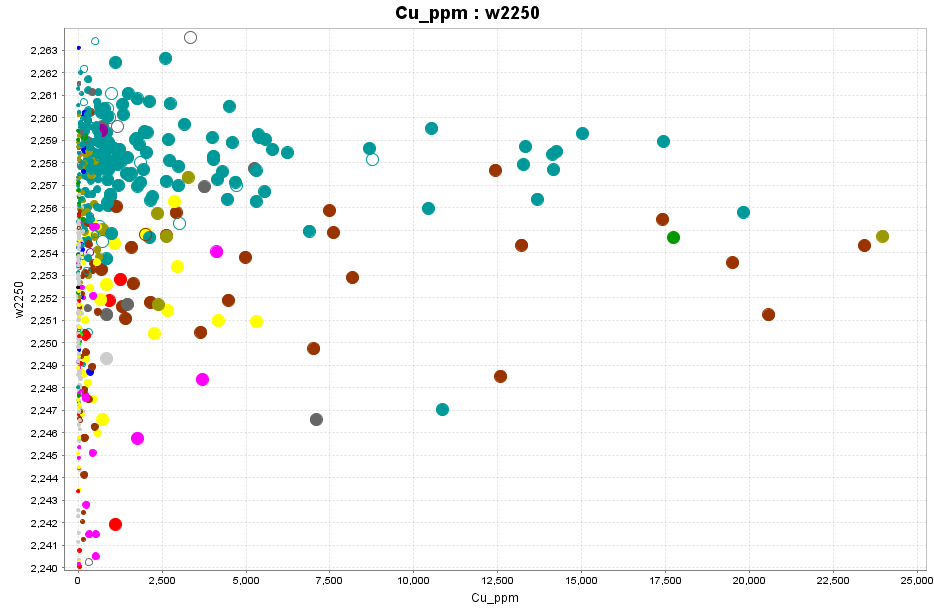
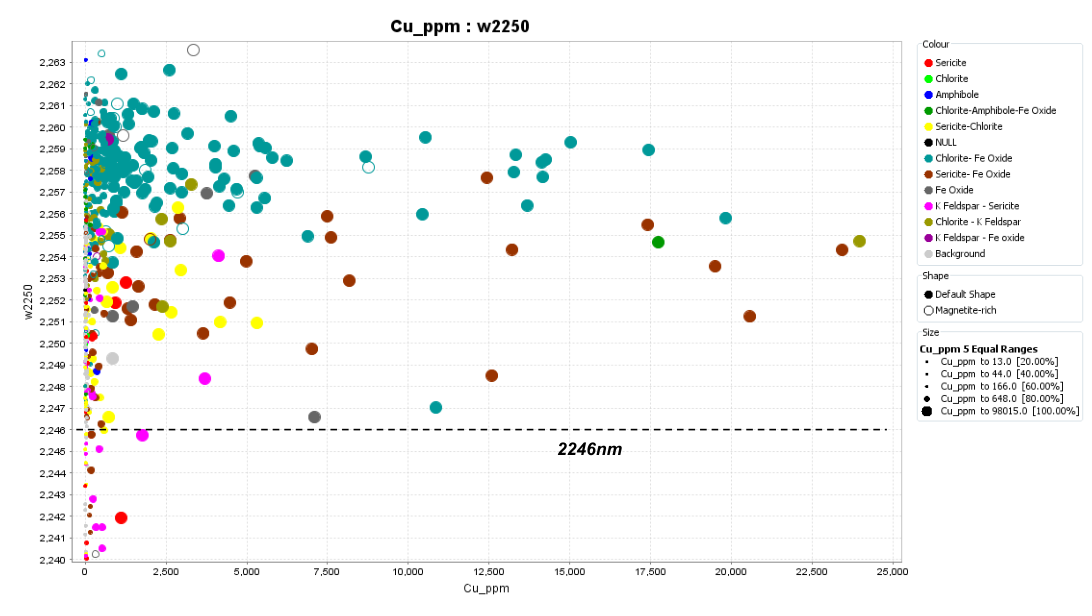
Match report figure scales, restore legends, and drop overlay boxes
Remove the shaded windows and Plotly legend-title boxes, recrop the 2013 figures so their original legends are visible, lock copper and GER axes to the same ranges as the report, and label the mineral fields on Figure 12.

diff --git a/docs/js/app.js b/docs/js/app.js
@@ -1,19 +1,33 @@
-/* Paleta alineada con geoia.site/balance (ALT_COLORS + QUAL_PALETTE). */
+/* Paleta GeoIA para el balance; paleta del informe (ioGAS) para ensamblajes. */
 const COLORS = {
   "Mica blanca / sericita": "#e6a23c",
   Clorita: "#67c23a",
   "K-feldespato": "#8a5cf6",
-  "Fe-óxido": "#f56c6c",
+  "Fe-óxido": "#808080",
   Carbonato: "#06b6d4",
   "Calc-silicato": "#84cc16",
-  "Anfibol / calc-silicato": "#2563eb",
+  "Anfibol / calc-silicato": "#4169e1",
   "Sulfuro Cu": "#f97316",
   "Arcilla / sulfato": "#ec4899",
   "Sin mineral SWIR": "#c3c9d4",
   "Caolinita / arcilla": "#ec4899",
   Mixto: "#64748b",
-  Sericita: "#e6a23c",
-  "Clorita-Fe-óxido": "#67c23a",
+  Sericita: "#e41a1c",
+  "Clorita-Fe-óxido": "#20b2aa",
+  "Sericita-Fe-óxido": "#8b4513",
+  "Sericita-clorita": "#ffd700",
+  "Sericita-clorita-Fe-óxido": "#daa520",
+  "K-feldespato-sericita": "#ff69b4",
+  "K-feldespato-Fe-óxido": "#800080",
+  "K-feldespato-magnetita": "#4b0082",
+  "K-feldespato-sericita-Fe-óxido": "#db7093",
+  "Clorita-magnetita": "#008b8b",
+  "Sericita-magnetita": "#a0522d",
+  "Clorita-anfibol-Fe-óxido": "#006400",
+  "Clorita-anfibol": "#228b22",
+  Anfibol: "#4169e1",
+  Magnetita: "#1e293b",
+  "Carbonato-Fe-óxido": "#4682b4",
   Propilitica: "#67c23a",
   Argilica: "#f56c6c",
   Potasica: "#8a5cf6",
@@ -45,7 +59,7 @@ const layoutBase = {
   plot_bgcolor: "#ffffff",
   font: { family: "Figtree, Segoe UI, sans-serif", color: "#1f2937", size: 12 },
   margin: { t: 48, r: 18, b: 56, l: 64 },
-  legend: { orientation: "h", y: -0.22 },
+  legend: { orientation: "h", y: -0.22, bgcolor: "rgba(255,255,255,0)", borderwidth: 0 },
 };
 
 let SAMPLES = [];
@@ -156,16 +170,16 @@ function renderMap() {
   legend.addTo(map);
 }
 
-function tracesBy(field, xKey, yKey) {
+function tracesBy(field, xKey, yKey, rows = SAMPLES) {
   const groups = {};
-  SAMPLES.forEach((s) => {
+  rows.forEach((s) => {
     const g = s[field] || "s/d";
     (groups[g] ||= []).push(s);
   });
-  return Object.entries(groups).map(([name, rows]) => ({
-    x: rows.map((s) => s[xKey]),
-    y: rows.map((s) => s[yKey]),
-    text: rows.map((s) => `${s.h} ${s.f}–${s.t} m<br>${s.lith} · ${s.st}<br>Cu ${s.cu} ppm`),
+  return Object.entries(groups).map(([name, group]) => ({
+    x: group.map((s) => s[xKey]),
+    y: group.map((s) => s[yKey]),
+    text: group.map((s) => `${s.h} ${s.f}–${s.t} m<br>${s.lith} · ${s.st}<br>Cu ${s.cu} ppm`),
     hoverinfo: "text",
     mode: "markers",
     type: "scatter",
@@ -204,9 +218,9 @@ function renderGer() {
       ...layoutBase,
       margin: { t: 48, r: 18, b: 90, l: 56 },
       title: { text: "Potasio / aluminio frente a sodio / aluminio", font: { size: 15 } },
-      xaxis: { title: "Na/Al (molar)", range: [-0.02, 1.05], zeroline: false },
-      yaxis: { title: "K/Al (molar)", range: [-0.02, 1.15], zeroline: false },
-      legend: { orientation: "h", y: -0.28, title: { text: "Mineral principal del balance" } },
+      xaxis: { title: "Na/Al (molar)", range: [0, 1], zeroline: false, constrain: "domain" },
+      yaxis: { title: "K/Al (molar)", range: [0, 1], zeroline: false, scaleanchor: "x", scaleratio: 1 },
+      legend: { orientation: "h", y: -0.28, bgcolor: "rgba(255,255,255,0)", borderwidth: 0 },
       shapes: gerShapes(),
       annotations: gerAnnotations(),
     }),
@@ -217,14 +231,14 @@ function renderGer() {
 function renderGerTsa() {
   Plotly.newPlot(
     "gertsa",
-    tracesBy("spec", "naal", "kal"),
+    tracesBy("asm", "naal", "kal"),
     withAxes({
       ...layoutBase,
       margin: { t: 48, r: 18, b: 90, l: 56 },
-      title: { text: "Mismo diagrama, color = mineral del espectro", font: { size: 15 } },
-      xaxis: { title: "Na/Al (molar)", range: [-0.02, 1.05], zeroline: false },
-      yaxis: { title: "K/Al (molar)", range: [-0.02, 1.15], zeroline: false },
-      legend: { orientation: "h", y: -0.28, title: { text: "Mineral visto por el espectrómetro" } },
+      title: { text: "Mismo diagrama, color = mezcla del informe", font: { size: 15 } },
+      xaxis: { title: "Na/Al (molar)", range: [0, 1], zeroline: false, constrain: "domain" },
+      yaxis: { title: "K/Al (molar)", range: [0, 1], zeroline: false, scaleanchor: "x", scaleratio: 1 },
+      legend: { orientation: "h", y: -0.28, bgcolor: "rgba(255,255,255,0)", borderwidth: 0 },
       shapes: gerShapes(),
       annotations: gerAnnotations(),
     }),
@@ -241,73 +255,52 @@ function renderFeAl() {
       title: { text: "Hierro frente a aluminio", font: { size: 15 } },
       xaxis: { title: "Al (%)" },
       yaxis: { title: "Fe (%)" },
-      legend: { orientation: "h", y: -0.22, title: { text: "Mineral del espectro" } },
+      legend: { orientation: "h", y: -0.22, bgcolor: "rgba(255,255,255,0)", borderwidth: 0 },
     }),
     { responsive: true, displayModeBar: false }
   );
 }
 
 function renderCuW() {
-  const cu = SAMPLES.filter((s) => s.cu != null && s.cu > 0);
+  const mica = SAMPLES.filter((s) => s.cu != null && s.cu > 0 && s.w22 != null);
   Plotly.newPlot(
     "cuw22",
-    [
-      {
-        x: cu.map((s) => s.cu),
-        y: cu.map((s) => s.w22),
-        mode: "markers",
-        type: "scatter",
-        marker: {
-          size: 7,
-          opacity: 0.75,
-          color: cu.map((s) => colorOf(s.spec)),
-          line: { width: 0.4, color: "#ffffff" },
-        },
-        text: cu.map((s) => `${s.h}<br>${s.spec}<br>banda mica ${s.w22} nm<br>Cu ${s.cu} ppm`),
-        hoverinfo: "text",
-        name: "muestras",
-        showlegend: false,
-      },
-    ],
+    tracesBy("asm", "cu", "w22", mica),
     withAxes({
       ...layoutBase,
+      margin: { t: 48, r: 18, b: 90, l: 64 },
       title: { text: "Banda de la mica (~2200 nm) frente a cobre", font: { size: 15 } },
-      xaxis: { title: "Cu (ppm)" },
-      yaxis: { title: "Posición de la banda de la mica (nm)", range: [2194, 2228] },
+      xaxis: { title: "Cu (ppm)", range: [0, 50000] },
+      yaxis: { title: "Posición de la banda de la mica (nm)", range: [2195, 2227.5] },
+      legend: { orientation: "h", y: -0.32, bgcolor: "rgba(255,255,255,0)", borderwidth: 0 },
       shapes: [
-        { type: "rect", x0: 0, x1: 55000, y0: 2206, y1: 2221, fillcolor: "rgba(230,162,60,0.14)", line: { width: 0 } },
+        { type: "line", x0: 0, x1: 50000, y0: 2206, y1: 2206, line: { dash: "dash", color: "#1e293b", width: 1 } },
+        { type: "line", x0: 0, x1: 50000, y0: 2221, y1: 2221, line: { dash: "dash", color: "#1e293b", width: 1 } },
+      ],
+      annotations: [
+        { x: 48000, y: 2206, text: "2206 nm", showarrow: false, font: { size: 10 }, xanchor: "right", yshift: -10 },
+        { x: 48000, y: 2221, text: "2221 nm", showarrow: false, font: { size: 10 }, xanchor: "right", yshift: 10 },
       ],
     }),
     { responsive: true, displayModeBar: false }
   );
 
+  const chl = SAMPLES.filter((s) => s.cu != null && s.cu > 0 && s.w25 != null);
   Plotly.newPlot(
     "cuw25",
-    [
-      {
-        x: cu.map((s) => s.cu),
-        y: cu.map((s) => s.w25),
-        mode: "markers",
-        type: "scatter",
-        marker: {
-          size: 7,
-          opacity: 0.75,
-          color: cu.map((s) => colorOf(s.spec)),
-          line: { width: 0.4, color: "#ffffff" },
-        },
-        text: cu.map((s) => `${s.h}<br>${s.spec}<br>banda clorita ${s.w25} nm<br>Cu ${s.cu} ppm`),
-        hoverinfo: "text",
-        name: "muestras",
-        showlegend: false,
-      },
-    ],
+    tracesBy("asm", "cu", "w25", chl),
     withAxes({
       ...layoutBase,
+      margin: { t: 48, r: 18, b: 90, l: 64 },
       title: { text: "Banda de la clorita (~2250 nm) frente a cobre", font: { size: 15 } },
-      xaxis: { title: "Cu (ppm)" },
-      yaxis: { title: "Posición de la banda de la clorita (nm)", range: [2238, 2266] },
+      xaxis: { title: "Cu (ppm)", range: [0, 25000] },
+      yaxis: { title: "Posición de la banda de la clorita (nm)", range: [2240, 2263] },
+      legend: { orientation: "h", y: -0.32, bgcolor: "rgba(255,255,255,0)", borderwidth: 0 },
       shapes: [
-        { type: "rect", x0: 0, x1: 55000, y0: 2246, y1: 2264, fillcolor: "rgba(103,194,58,0.12)", line: { width: 0 } },
+        { type: "line", x0: 0, x1: 25000, y0: 2246, y1: 2246, line: { dash: "dash", color: "#1e293b", width: 1 } },
+      ],
+      annotations: [
+        { x: 24000, y: 2246, text: "2246 nm", showarrow: false, font: { size: 10 }, xanchor: "right", yshift: -10 },
       ],
     }),
     { responsive: true, displayModeBar: false }
@@ -317,38 +310,46 @@ function renderCuW() {
 function renderMagsus() {
   const rows = SAMPLES.filter((s) => s.ms != null && s.ms > 0);
   const holes = unique(rows.map((s) => s.h)).sort();
+  const groups = {};
+  rows.forEach((s) => {
+    (groups[s.asm || "s/d"] ||= []).push(s);
+  });
+  const traces = Object.entries(groups).map(([name, group]) => ({
+    x: group.map((s) => s.ms),
+    y: group.map((s) => s.h),
+    mode: "markers",
+    type: "scatter",
+    name,
+    marker: {
+      size: 8,
+      opacity: 0.8,
+      color: colorOf(name),
+      symbol: group.map((s) => (s.ms >= 5000 ? "circle-open" : "circle")),
+      line: { width: 1.2, color: colorOf(name) },
+    },
+    text: group.map(
+      (s) =>
+        `${s.h}<br>${s.asm}<br>susceptibilidad ${s.ms}<br>magnetita del balance ${s.mt}%`
+    ),
+    hoverinfo: "text",
+  }));
   Plotly.newPlot(
     "magsus",
-    [
-      {
-        x: rows.map((s) => s.ms),
-        y: rows.map((s) => s.h),
-        mode: "markers",
-        type: "scatter",
-        marker: {
-          size: 8,
-          opacity: 0.8,
-          color: rows.map((s) => s.mt || 0),
-          colorscale: DENSITY_COLORSCALE,
-          colorbar: { title: { text: "Magnetita<br>del balance (%)" }, thickness: 14 },
-          line: { width: 0.3, color: "#ffffff" },
-        },
-        text: rows.map(
-          (s) =>
-            `${s.h}<br>susceptibilidad magnética ${s.ms}<br>magnetita ${s.mt}% · hematita ${s.hm}%`
-        ),
-        hoverinfo: "text",
-      },
-    ],
+    traces,
     withAxes({
       ...layoutBase,
       height: 620,
-      margin: { t: 48, r: 90, b: 56, l: 90 },
+      margin: { t: 48, r: 18, b: 90, l: 90 },
       title: { text: "Susceptibilidad magnética por sondaje", font: { size: 15 } },
-      xaxis: { title: "Susceptibilidad magnética (×10⁻⁵ SI)", type: "log" },
+      xaxis: { title: "Susceptibilidad magnética (×10⁻⁵ SI)", type: "log", range: [-2, 5] },
       yaxis: { title: "Sondaje", categoryorder: "array", categoryarray: holes.slice().reverse() },
+      legend: { orientation: "h", y: -0.18, bgcolor: "rgba(255,255,255,0)", borderwidth: 0 },
       shapes: [
-        { type: "line", xref: "x", yref: "paper", x0: 5000, x1: 5000, y0: 0, y1: 1, line: { dash: "dash", color: "#f56c6c", width: 2 } },
+        { type: "line", xref: "x", yref: "paper", x0: 5000, x1: 5000, y0: 0, y1: 1, line: { dash: "dash", color: "#2563eb", width: 1.5 } },
+      ],
+      annotations: [
+        { x: 200, y: 1.02, yref: "paper", text: "hematita", showarrow: false, font: { size: 11, color: "#2563eb" } },
+        { x: 30000, y: 1.02, yref: "paper", text: "magnetita", showarrow: false, font: { size: 11, color: "#2563eb" } },
       ],
     }),
     { responsive: true, displayModeBar: false }

diff --git a/docs/index.html b/docs/index.html
@@ -199,19 +199,19 @@
 
     <section class="section wrap" id="graficos">
       <h2>Los diagramas del informe, recreados con el CSV</h2>
-      <p class="note">A la izquierda, la recreación. A la derecha, la figura original. Los ejes coinciden con el informe: lo que iba en X sigue en X.</p>
+      <p class="note">A la izquierda, la recreación. A la derecha, la figura original con su leyenda. Los dos gráficos de cada fila usan la misma escala.</p>
 
       <h3>Potasio y sodio respecto al aluminio</h3>
       <div class="grid-2">
         <div class="card">
           <div id="ger" class="chart"></div>
-          <p class="fig-cap">Color = mineral principal del balance (sin cuarzo). Eje X: sodio/aluminio. Eje Y: potasio/aluminio.</p>
+          <p class="fig-cap">Color = mineral principal del balance (sin cuarzo). Mismos ejes que la figura de al lado: 0 a 1.</p>
         </div>
         <div>
           <div class="fig-frame">
             <img src="assets/figs/fig8_ger.png" alt="Figura 8 del informe: campos de K-feldespato, moscovita, clorita y albita" />
           </div>
-          <p class="fig-cap">Figura 8 del informe. La nube se junta a la izquierda (poco sodio). Una cola baja va hacia albita.</p>
+          <p class="fig-cap">Figura 8 del informe. Leyenda: tipo de roca. La nube a la izquierda es alteración (poco sodio). El espacio vacío a la derecha es roca con más sodio, casi sin alterar.</p>
         </div>
       </div>
 
@@ -219,13 +219,23 @@
       <div class="grid-2">
         <div class="card">
           <div id="gertsa" class="chart"></div>
-          <p class="fig-cap">Mismos ejes que la figura de al lado. El color ahora es el mineral que vio el espectrómetro, no el del balance.</p>
+          <p class="fig-cap">Mismos ejes 0–1. El color es la mezcla de minerales del informe (espectro + química), para poder compararlo con la figura de al lado.</p>
         </div>
         <div>
           <div class="fig-frame">
             <img src="assets/figs/fig12_espectral_geoquimica.png" alt="Figura 12: clasificación combinada espectral y geoquímica" />
           </div>
-          <p class="fig-cap">Figura 12 del informe: el mismo diagrama de sodio y potasio, con colores del espectro.</p>
+          <p class="fig-cap">Figura 12 del informe. Leyenda: mezcla de minerales (espectro + química). Los colores marcan ensamblajes, no los campos del diagrama.</p>
+          <div class="area-legend">
+            <strong>Qué es cada zona del diagrama</strong>
+            <ul>
+              <li><b>Arriba a la izquierda</b> (mucho potasio, casi sin sodio): feldspato potásico.</li>
+              <li><b>A media altura a la izquierda</b> (marca «Mu», K/Al ≈ 0,33): moscovita / sericita.</li>
+              <li><b>Abajo a la izquierda</b> (origen, marca «Cd»): clorita.</li>
+              <li><b>Abajo a la derecha</b> (mucho sodio): albita.</li>
+              <li><b>Centro y derecha casi vacíos</b>: roca poco alterada (volcanitas GRV o granito Donington).</li>
+            </ul>
+          </div>
         </div>
       </div>
 
@@ -239,11 +249,11 @@
       <div class="grid-2">
         <div class="card">
           <div id="cuw22" class="chart"></div>
-          <p class="fig-cap">Eje X: cobre. Eje Y: posición de la banda de la mica. La franja horizontal es la ventana 2206–2221 nm del informe.</p>
+          <p class="fig-cap">Eje X: cobre, 0–50 000 ppm (igual que el informe). Las líneas punteadas son 2206 y 2221 nm: ahí cae casi todo el cobre alto.</p>
         </div>
         <div>
           <div class="fig-frame"><img src="assets/figs/fig20_cu_w2200.png" alt="Figura 20: Cu en X y w2200 en Y" /></div>
-          <p class="fig-cap">Figura 20 del informe. Cobre en horizontal; banda de la mica en vertical.</p>
+          <p class="fig-cap">Figura 20 del informe. Leyenda: mezcla de minerales. Círculo abierto = muestra magnética (magnetita). El tamaño del punto también indica cobre.</p>
         </div>
       </div>
 
@@ -251,11 +261,11 @@
       <div class="grid-2">
         <div class="card">
           <div id="cuw25" class="chart"></div>
-          <p class="fig-cap">Eje X: cobre. Eje Y: posición de la banda de la clorita. La clorita rica en hierro queda más arriba.</p>
+          <p class="fig-cap">Eje X: cobre, 0–25 000 ppm (igual que el informe). La línea punteada es 2246 nm: el cobre alto queda por encima (clorita más férrica).</p>
         </div>
         <div>
           <div class="fig-frame"><img src="assets/figs/fig23_cu_w2250.png" alt="Figura 23: Cu en X y w2250 en Y" /></div>
-          <p class="fig-cap">Figura 23 del informe. Cobre en horizontal; banda de la clorita en vertical.</p>
+          <p class="fig-cap">Figura 23 del informe. Leyenda: mezcla de minerales. Círculo abierto = magnetita. Cobre alto sobre 2246 nm.</p>
         </div>
       </div>
 
@@ -263,13 +273,13 @@
       <div class="grid-2">
         <div class="card">
           <div id="magsus" class="chart tall"></div>
-          <p class="fig-cap">Eje X: susceptibilidad magnética (qué tan magnética es la roca). Eje Y: sondaje. El color es la magnetita que calcula el balance. La línea roja es el umbral del informe.</p>
+          <p class="fig-cap">Mismos ejes que el informe (escala logarítmica). Color = mezcla de minerales. Círculo abierto = por encima del umbral magnético (hacia magnetita).</p>
         </div>
         <div>
           <div class="fig-frame">
             <img src="assets/figs/fig13_magsus.png" alt="Figura 13: susceptibilidad magnética por sondaje" />
           </div>
-          <p class="fig-cap">Figura 13 del informe: misma orientación (magnética en X, sondaje en Y). Los círculos abiertos eran su criterio de magnetita.</p>
+          <p class="fig-cap">Figura 13 del informe. Leyenda: mezcla de minerales. Círculos abiertos = magnetita. A la izquierda de la línea, hematita; a la derecha, magnetita.</p>
         </div>
       </div>
 

diff --git a/docs/css/styles.css b/docs/css/styles.css
@@ -209,11 +209,19 @@ h1 { font-size: clamp(1.85rem, 3.8vw, 2.85rem); max-width: 22ch; }
   grid-template-columns: 1fr 1fr;
   gap: 16px;
 }
-.fig-cap {
-  font-size: 0.85rem;
-  color: var(--ink-soft);
-  margin-top: 8px;
+.area-legend {
+  margin-top: 10px;
+  padding: 12px 14px;
+  background: var(--paper-2);
+  border: 1px solid var(--line);
+  border-radius: 10px;
+  font-size: 0.88rem;
+  line-height: 1.45;
+  color: var(--ink);
 }
+.area-legend strong { display: block; margin-bottom: 6px; }
+.area-legend ul { margin: 0; padding-left: 18px; }
+.area-legend li { margin: 4px 0; }
 .fig-frame {
   background: #fff;
   border: 1px solid var(--line);
